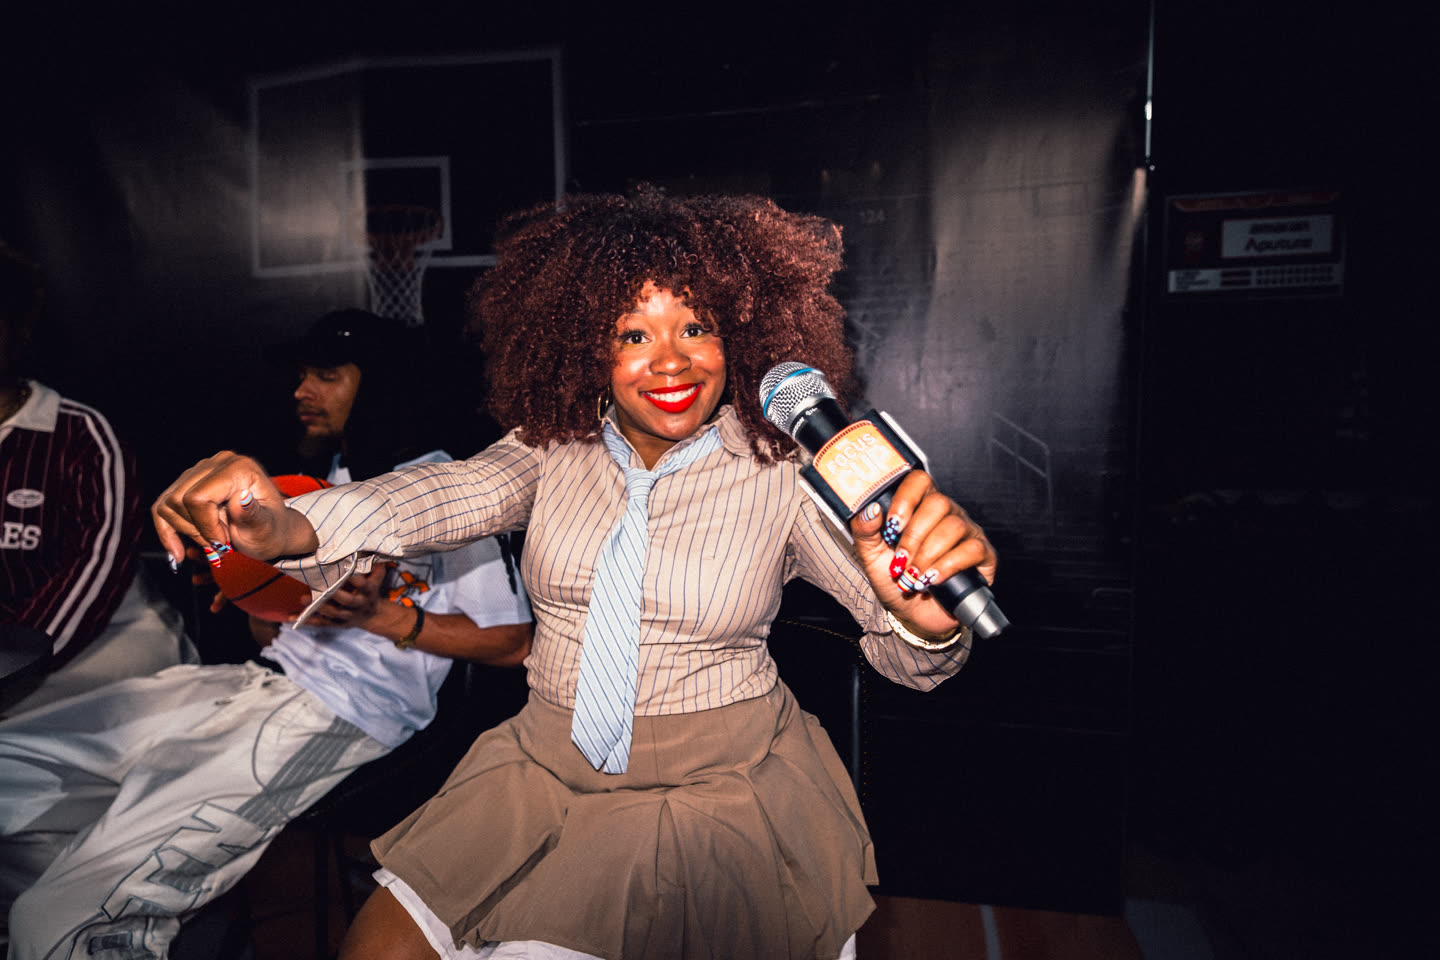
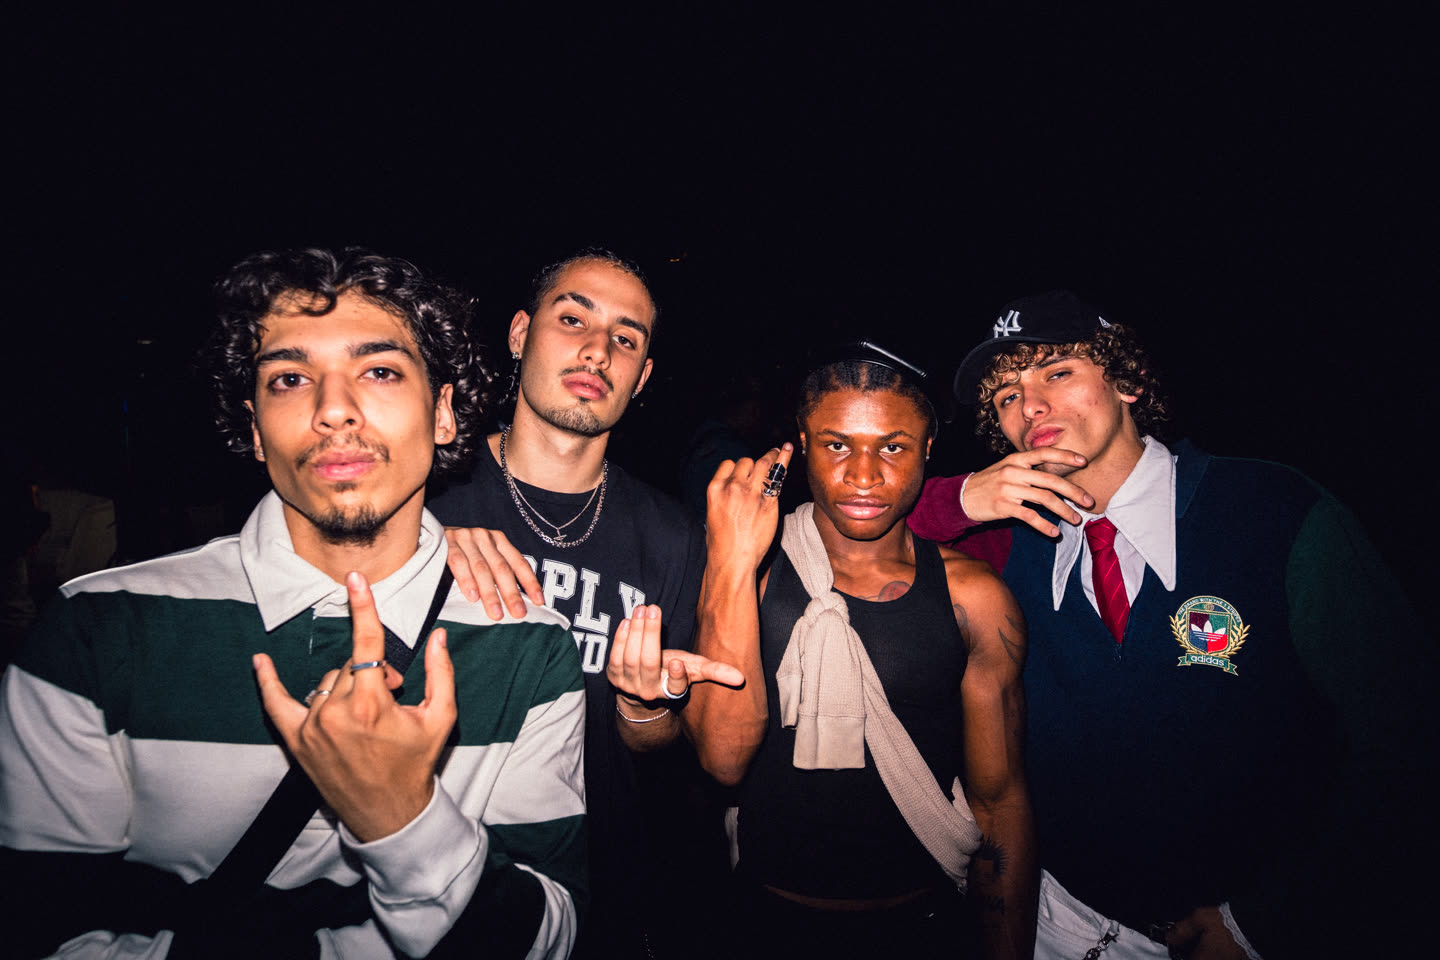
Use full-frame Sony event stills

diff --git a/index.html b/index.html
@@ -131,7 +131,7 @@
           </video>
           <figcaption>Sony Focus / Event film</figcaption>
         </figure>
-        <figure class="reveal sony-still"><img loading="lazy" src="assets/images/sony-event-01.jpg" alt="Guests gathered around a Sony Focus basketball activation" width="1440" height="960"><figcaption>Sony Focus</figcaption></figure>
+        <figure class="reveal sony-still"><img loading="lazy" src="assets/images/sony-event-01.jpg" alt="Four guests together during the Sony Focus event" width="1440" height="960"><figcaption>Sony Focus</figcaption></figure>
         <figure class="reveal sony-still"><img loading="lazy" src="assets/images/sony-event-02.jpg" alt="Guests in colorful costumes during the Sony Focus event" width="1440" height="960"></figure>
         <figure class="reveal"><img loading="lazy" src="assets/images/taylor-01.jpg" alt="Guests talking together at the Taylor Wos event" width="2048" height="1366"><figcaption>Taylor Wos</figcaption></figure>
         <figure class="reveal"><img loading="lazy" src="assets/images/taylor-02.jpg" alt="Guests laughing together at the Taylor Wos event" width="2048" height="1366"></figure>

diff --git a/styles.css b/styles.css
@@ -148,7 +148,7 @@ em { font-family: Georgia, 'Times New Roman', serif; font-weight: 400; }
   background: var(--paper-deep);
 }
 .gallery-private .sony-still img {
-  aspect-ratio: 4 / 3;
+  aspect-ratio: 3 / 2;
 }
 .gallery .gallery-video {
   grid-column: span 2;
